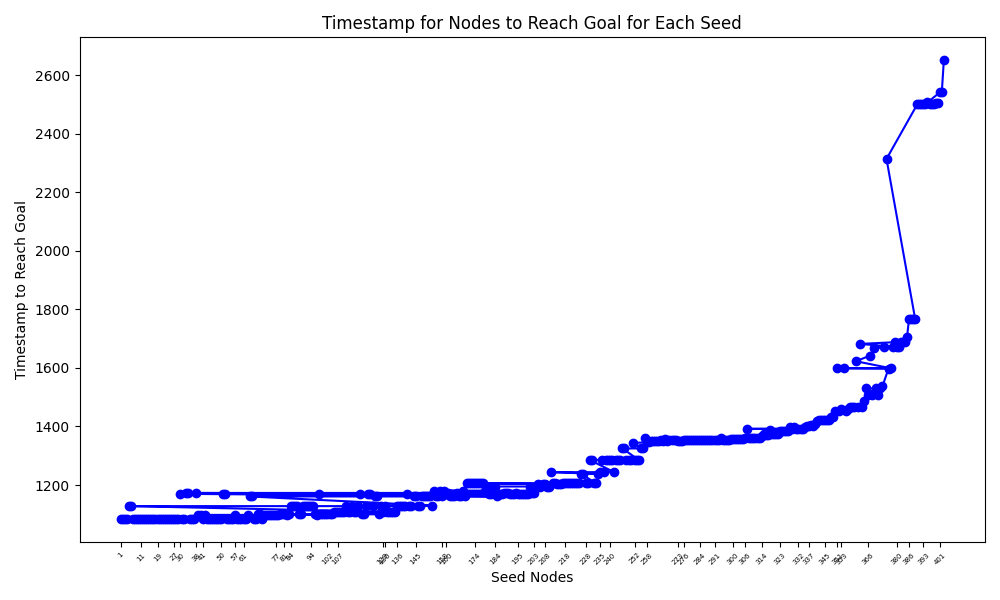
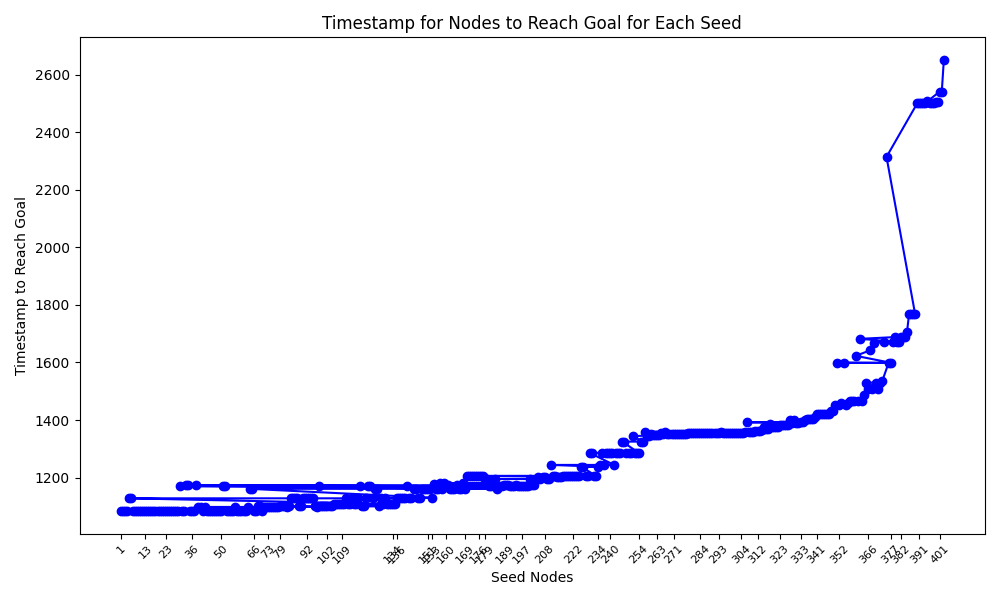
part b

diff --git a/temporal_network.py b/temporal_network.py
@@ -74,8 +74,8 @@ def first_contact_in_network(edges_by_timestamp):
 
 
 def find_first_timestamp_and_link(edges_by_timestamp, seed):
-    for timestamp, edges in edges_by_timestamp.items():
-        for (n1, n2) in edges:
+    for timestamp, edgess in edges_by_timestamp.items():
+        for (n1, n2) in edgess:
             if seed == n1 or seed == n2:
                 return timestamp, (n1, n2)
 
@@ -135,24 +135,22 @@ def calculate_standard_deviation(infected_nodes_by_timestamp):
         std_deviation_by_timestamp[timestamp] = std_deviation
     return std_deviation_by_timestamp
 
-
 def plot_average_infected_with_errorbars(infected_nodes_by_timestamp):
     timestamps = list(infected_nodes_by_timestamp.keys())
     averages = []
     std_deviations = []
     for timestamp, num_infected_list in infected_nodes_by_timestamp.items():
-        average = np.mean(num_infected_list)
+        average = calculate_average_infected(infected_nodes_by_timestamp)
         std_deviation = np.std(num_infected_list)
         averages.append(average)
         std_deviations.append(std_deviation)
-
-    # Plot
-    plt.errorbar(timestamps, averages, yerr=std_deviations, fmt='o-', label='Average Infected')
+    averages = list(calculate_average_infected(infected_nodes_by_timestamp).values())
+    std_deviations = list(calculate_standard_deviation(infected_nodes_by_timestamp).values())
+    plt.errorbar(timestamps, averages, yerr=std_deviations)
     plt.xlabel('Timestamp')
     plt.ylabel('Average Number of Infected Nodes (E[I(t)])')
     plt.title('Average Number of Infected Nodes Over Time')
     plt.savefig('b_8.png')
-    plt.legend()
     plt.show()
 
 
@@ -163,14 +161,14 @@ def plot_infected_nodes_by_seed(sorted_infected_nodes, assignment_num):
     timestamps = list(sorted_infected_nodes.values())
 
     plt.figure(figsize=(10, 6))
-    plt.plot(seeds, timestamps, marker='o', linestyle='-', color='b')
+    plt.plot(seeds, timestamps, marker='o', color='b')
     plt.xlabel('Seed Nodes')
     plt.ylabel('Timestamp to Reach Goal')
     plt.title('Timestamp for Nodes to Reach Goal for Each Seed')
     num_ticks = 50
     if len(seeds) > num_ticks:
-        step = len(seeds) // num_ticks
-        plt.xticks(seeds[::step], rotation=45, fontsize=5)
+        step = 10
+        plt.xticks(seeds[::step], rotation=45, fontsize=8)
     else:
         plt.xticks(seeds, rotation=45, fontsize=5)
 
@@ -179,7 +177,7 @@ def plot_infected_nodes_by_seed(sorted_infected_nodes, assignment_num):
     plt.show()
 
 #b10
-def centrality(nodes, edges, sorted_infected_nodes, edges_by_timestamp):
+def centrality(nodes, edges, sorted_infected_nodes, edges_by_timestamp, num):
     sorted_infected_nodes = list(sorted_infected_nodes.keys())
     f = [0.05, 0.1, 0.15, 0.2, 0.25, 0.3, 0.35, 0.4, 0.45, 0.5]
     degrees = calculate_degree(edges, nodes)
@@ -205,15 +203,23 @@ def centrality(nodes, edges, sorted_infected_nodes, edges_by_timestamp):
     plt.figure(figsize=(10, 6))
     plt.plot(f, rRD_values, marker='o', label='rRD')
     plt.plot(f, rRS_values, marker='s', label='rRS')
-    plt.plot(f, rFS_values, marker='^', label='rFS')
-    plt.xlabel('f')
-    plt.ylabel('Recognition Rate')
-    plt.title('Recognition Rate vs. f')
-    plt.xticks(f)
-    plt.legend()
-    plt.savefig('b_10_11.png')
-    plt.show()
-
+    if num == "10":
+        plt.xlabel('Fraction according to nodes influence')
+        plt.ylabel('Recognition Rate')
+        plt.title('Recognition Rate for degree and strength vs fraction')
+        plt.xticks(f)
+        plt.legend()
+        plt.savefig('b_10.png')
+        plt.show()
+    else:
+        plt.plot(f, rFS_values, marker='^', label='r_first_contact')
+        plt.xlabel('Fraction according to nodes influence')
+        plt.ylabel('Recognition Rate')
+        plt.title('Recognition Rate for degree, strength and first contact vs fraction')
+        plt.xticks(f)
+        plt.legend()
+        plt.savefig('b_11.png')
+        plt.show()
 
 def get_networks_b12(edges_by_timestamp: dict, nodes: list[int], infection_goal):
     networks = []
@@ -249,20 +255,24 @@ def get_networks_b12(edges_by_timestamp: dict, nodes: list[int], infection_goal)
 
 if __name__ == "__main__":
     edges_by_timestamp, nodes, edges = read_file()
-    # networks, infected_nodes_by_timestamp, sorted_infected_nodes = get_networks(edges_by_timestamp, nodes, 0.8)
-    # print(calculate_average_infected(infected_nodes_by_timestamp))
+    networks, infected_nodes_by_timestamp, sorted_infected_nodes = get_networks(edges_by_timestamp, nodes, 0.8)
 
-    # print(len(networks))
+    # PART B.8
     # plot_average_infected_with_errorbars(infected_nodes_by_timestamp)
 
+    # PART B.9
     # plot_infected_nodes_by_seed(sorted_infected_nodes, "9")
 
-    # centrality(nodes, edges, sorted_infected_nodes, edges_by_timestamp)
+    # PART B.10
+    centrality(nodes, edges, sorted_infected_nodes, edges_by_timestamp, "10")
+
+    # PART B.11
+    centrality(nodes, edges, sorted_infected_nodes, edges_by_timestamp, "11")
 
     # # For 12 we need to rank on 10% reached.
     # networks, infected_nodes_by_timestamp, sorted_infected_nodes_12_1 = get_networks(edges_by_timestamp, nodes, 0.1)
     # plot_infected_nodes_by_seed(sorted_infected_nodes_12_1, "12_1")
 
     # Last metric bit more work, Need sum of timestamps divided by 80% * num of nodes
-    networks, infected_nodes_by_timestamp, sorted_infected_nodes_12_2 = get_networks_b12(edges_by_timestamp, nodes, 0.8)
-    plot_infected_nodes_by_seed(sorted_infected_nodes_12_2, "12_2")
+    # networks, infected_nodes_by_timestamp, sorted_infected_nodes_12_2 = get_networks_b12(edges_by_timestamp, nodes, 0.8)
+    # plot_infected_nodes_by_seed(sorted_infected_nodes_12_2, "12_2")

diff --git a/Report.MD b/Report.MD
@@ -45,3 +45,22 @@ So this graph most likely has no small world property.
 The graph is similar to power law function. To check it, we plot it on log-log scale:
 ![Weight distribution_log of the network](./a_7_log.png)
 We can see relatively straight line at the beginning, which then becomes more noisy and becomes horizontal. However, it looks like horizontal due to very low probabilities very close to 0. As vertical scale is quite big, the difference is not reflected in the graph. Based on two graphs, we think distribution follows power law.
+
+### B.8
+![Infected_per_timestamp](./b_8.png)
+TODO: explain that it looks strange because a lot of error bars
+
+### B.9
+![Infected_80_percent](./b_9.png)
+Explain graph here
+
+### B.10: 
+TODO: idk if we need to do what is stated after Attention: It is possible that many nodes have the same rank; 
+![recognition rate](./b_10.png)
+TODO: Answer: Which metric, the degree or the strength could better predict the influence of the
+nodes? Why?
+I think there is no general answer, degree works better when has 15+% and works worse with small %.
+
+### B.11: 
+TODO: Compare this nodal property with degree and strength: which feature better/worse reflects how influential a node is and why?
+![recognition rate contact](./b_11.png)
